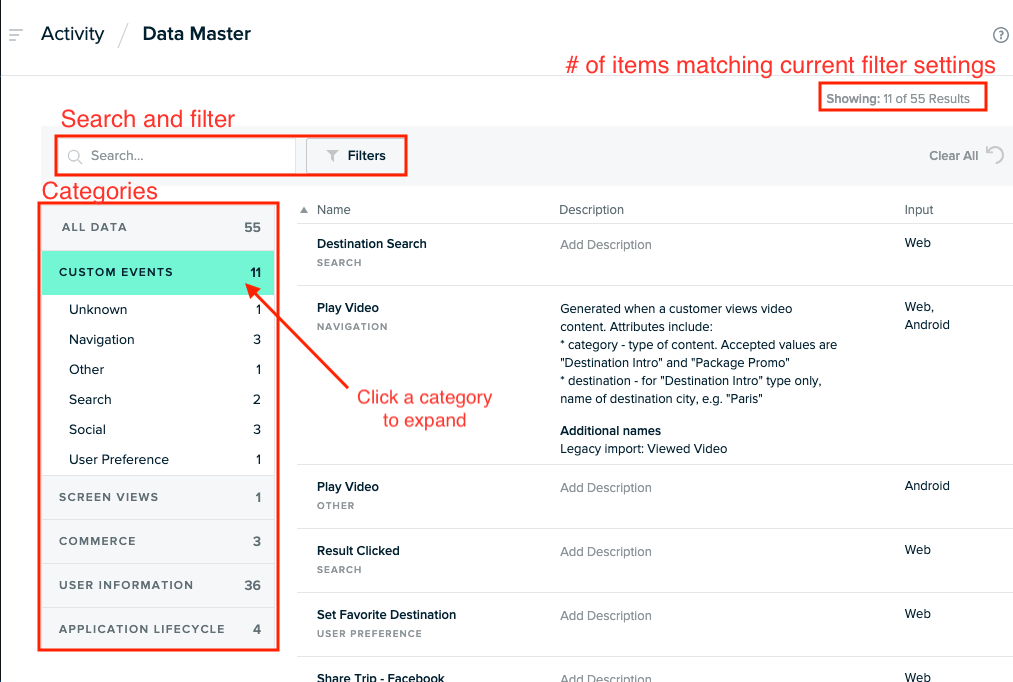
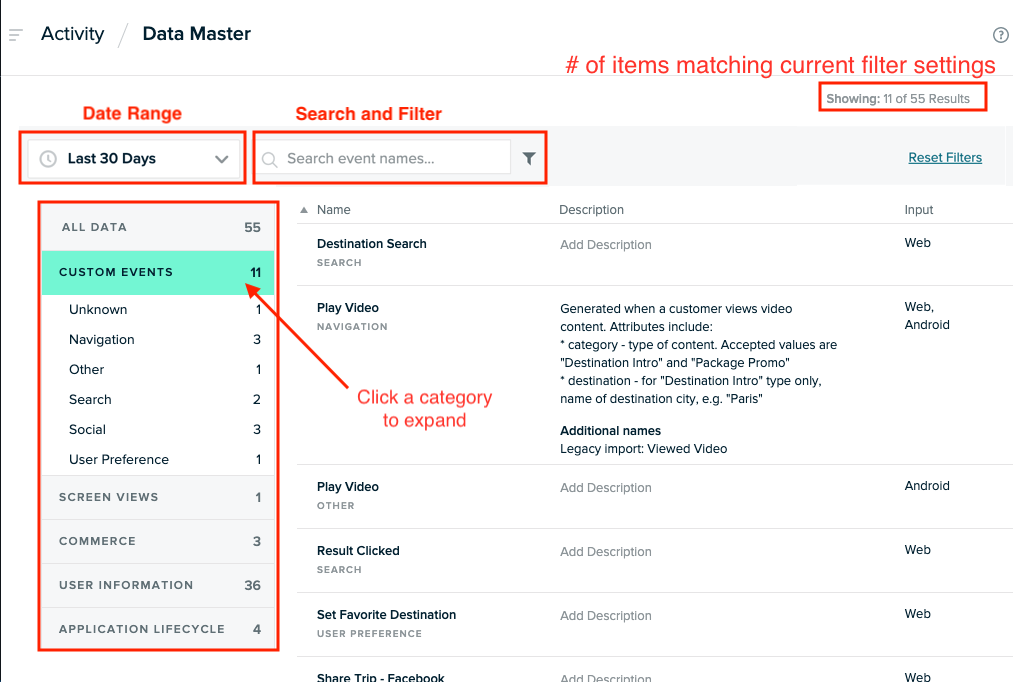
add date picker plus cleanup (#1661)

Changed region(s): [[0.0, 0.154, 0.5508, 0.3079], [0.8875, 0.2155, 1.0, 0.2463]]

diff --git a/src/pages/guides/data-master/catalog/index.md b/src/pages/guides/data-master/catalog/index.md
@@ -5,14 +5,14 @@ seoTitle: mParticle Catalog documentation
 seoDescription: Learn how the catalog gives you a single view of every unique event, attribute, and identity collected in an mParticle workspace.
 ---
 
-Catalog gives you a single view of every unique event, attribute and identity collected in an mParticle workspace, detailed insights into each of these Data Points, and lets you provide your own annotations. 
+Catalog gives you a single view of every unique event, attribute and identity collected in an mParticle workspace, detailed insights into each of these data points, and lets you provide your own annotations. 
 
 ## List view
 
 You can use the Catalog's List view to:
-- View a centralized listing of all your Data Points.
-- Spot Data Points which are duplicated, inconsistently named, etc.
-- Identify and eliminate unnecessary or redundant Data Points
+- View a centralized listing of all the data points.
+- Spot data points which are duplicated, inconsistently named, etc.
+- Identify and eliminate unnecessary or redundant data points
 
 
 The list view displays six main categories:
@@ -26,43 +26,45 @@ The list view displays six main categories:
 
 ![](/images/data-master-main.png)
 
-<aside class="notice">The Catalog will only show a category heading if there is at least one matching Data Point to display. Click on any Data Point to see detailed information. You can also add a description directly from the list view.
+<aside class="notice">The Catalog will only show a category heading if there is at least one matching data point to display. Click on any data point to see detailed information. You can also add a description directly from the list view.
 </aside>
 
-## Search and Filter
+## Date Range, Search, and Filter
 
-You can filter the list view to find specific Data Points by:
+You can filter the list view to display specific data points:
 
-* **Search**: show Data Points with matching name, description or other name.
+* **Date Range**: show data points that have been seen within a selected date range.
 
-* **Input/App Version**: show Data Points that have been seen for the selected inputs/app versions.
+* **Search**: show data points with a matching name or description.
 
-* **Environment**: show Data Points that have been seen in the `dev` or `prod` environments.
-* **Channel**: show Data Points that have been seen for the selected channel. Channel is distinct from input and describes how a Data Point arrived at mParticle. For example, a Data Point may arrive fron the client-side, server-side, or from a partner feed. Valid channels include:
-  - `native`
-  - `javascript`
-  - `pixel`
-  - `partner`
-  - `server_to_server`
+* Filter icon: show data points that match the criteria you specify:
 
-* **Date Range**: show Data Points that have been seen within a selected date range.
+  * **Input/App Version**: show data points that have been seen for the selected inputs/app versions.
 
-You can combine the above filters to quickly browse and explore your Data Points. Setting a filter will also clear any current category selection.
+  * **Environment**: show data points that have been seen in the `dev` or `prod` environments.
+  * **Channel**: show data points that have been seen for the selected channel. Channel is distinct from input and describes how a data point arrived at mParticle. For example, a data point may arrive fron the client-side, server-side, or from a partner feed. Valid channels include:
+    - `native`
+    - `javascript`
+    - `pixel`
+    - `partner`
+    - `server_to_server`
+
+Combine date ranges and filters with your search terms to quickly browse and explore data points. Setting a filter will also clear any current category selection.
 
 ## Details view
 
-The details view gives you detailed information on an individual Data Point, including environments the event has been captured for, and when an event was last seen for each platform. 
+The details view gives you detailed information on an individual data point, including environments the event has been captured for, and when an event was last seen for each platform. 
 
-Users with `admin` access can annotate Data Points in the following ways:
+Users with `admin` access can annotate data points in the following ways:
 
-* **Tags**: a freeform list of labels you'd like to associate to the Data Point.
-* **External Link**: a link to your wiki or any other resource containing documentation about the Data Point
-* **Description**: a custom text field where you can describe the Data Point, expected attributes, how it's used, and any other relevant information.
-* **Additional Names**: a list of alternate names the Data Point is known by. For example, legacy names or names from a partner feed.
+* **Tags**: a freeform list of labels you'd like to associate to the data point.
+* **External Link**: a link to your wiki or any other resource containing documentation about the data point
+* **Description**: a custom text field where you can describe the data point, expected attributes, how it's used, and any other relevant information.
+* **Additional Names**: a list of alternate names the data point is known by. For example, legacy names or names from a partner feed.
 
 ### Data Point Attributes
 
-Your event Data Points may include attributes, and the details view shows every attribute name that has ever been seen within the given Data Point. You can see the total volume received in the last 30 days, when the attribute was last seen, and the *detected* data type. The supported detection types are:
+Your event data points may include attributes, and the details view shows every attribute name that has ever been seen within the given data point. You can see the total volume received in the last 30 days, when the attribute was last seen, and the *detected* data type. The supported detection types are:
 
 * String
 * String-list
@@ -78,7 +80,7 @@ Your event Data Points may include attributes, and the details view shows every 
 
 <aside class="notice">Dates and times shown on the Stats view are in UTC.</aside>
 
-For Data Points, the stats view shows two important groups of statistics for a selected date:
+For data points, the stats view shows two important groups of statistics for a selected date:
 
 * **Input** stats show how many instances of the event have been received, by platform and channel.
 * **Output** stats show the volume sent to each output, as well as the delta between the number of events received and outgoing messages sent. This delta can be useful for troubleshooting, but note that the difference between volume sent and received usually doesn’t indicate a problem. Expansion of eCommerce events can cause multiple messages to be sent to an output for a single event. Likewise, filtering or an output partners minimum requirements can cause mParticle not to forward every event we receive.

diff --git a/src/pages/guides/data-master/data-planning/index.md b/src/pages/guides/data-master/data-planning/index.md
@@ -371,7 +371,7 @@ To prevent blocked data from being lost, you can opt for blocked data to be forw
 
 ![](/images/dataplanning/block/block_settings_page.png)
 
-Anytime a Data Point is blocked, the Quarantine Connection will forward the original batch and metadata about what was blocked to the configured Amazon S3 bucket. You will then be able to:
+Anytime a data point is blocked, the Quarantine Connection will forward the original batch and metadata about what was blocked to the configured Amazon S3 bucket. You will then be able to:
 
 - Examine the blocked data in greater detail.
 - Backfill data that was mistakenly blocked by following our [backfill guide](/guides/data-master/blocked-data-backfill-guide).
@@ -655,7 +655,7 @@ To prevent blocked data from being lost, you can opt for blocked data to be forw
 
 ![](/images/dataplanning/block/block_settings_page.png)
 
-Anytime a Data Point is blocked, the Quarantine Connection will forward the original batch and metadata about what was blocked to the configure Amazon S3 bucket. You will then be able to:
+Anytime a data point is blocked, the Quarantine Connection will forward the original batch and metadata about what was blocked to the configure Amazon S3 bucket. You will then be able to:
 
 - Examine the blocked data in greater detail.
 - Backfill data that was mistakenly blocked.
